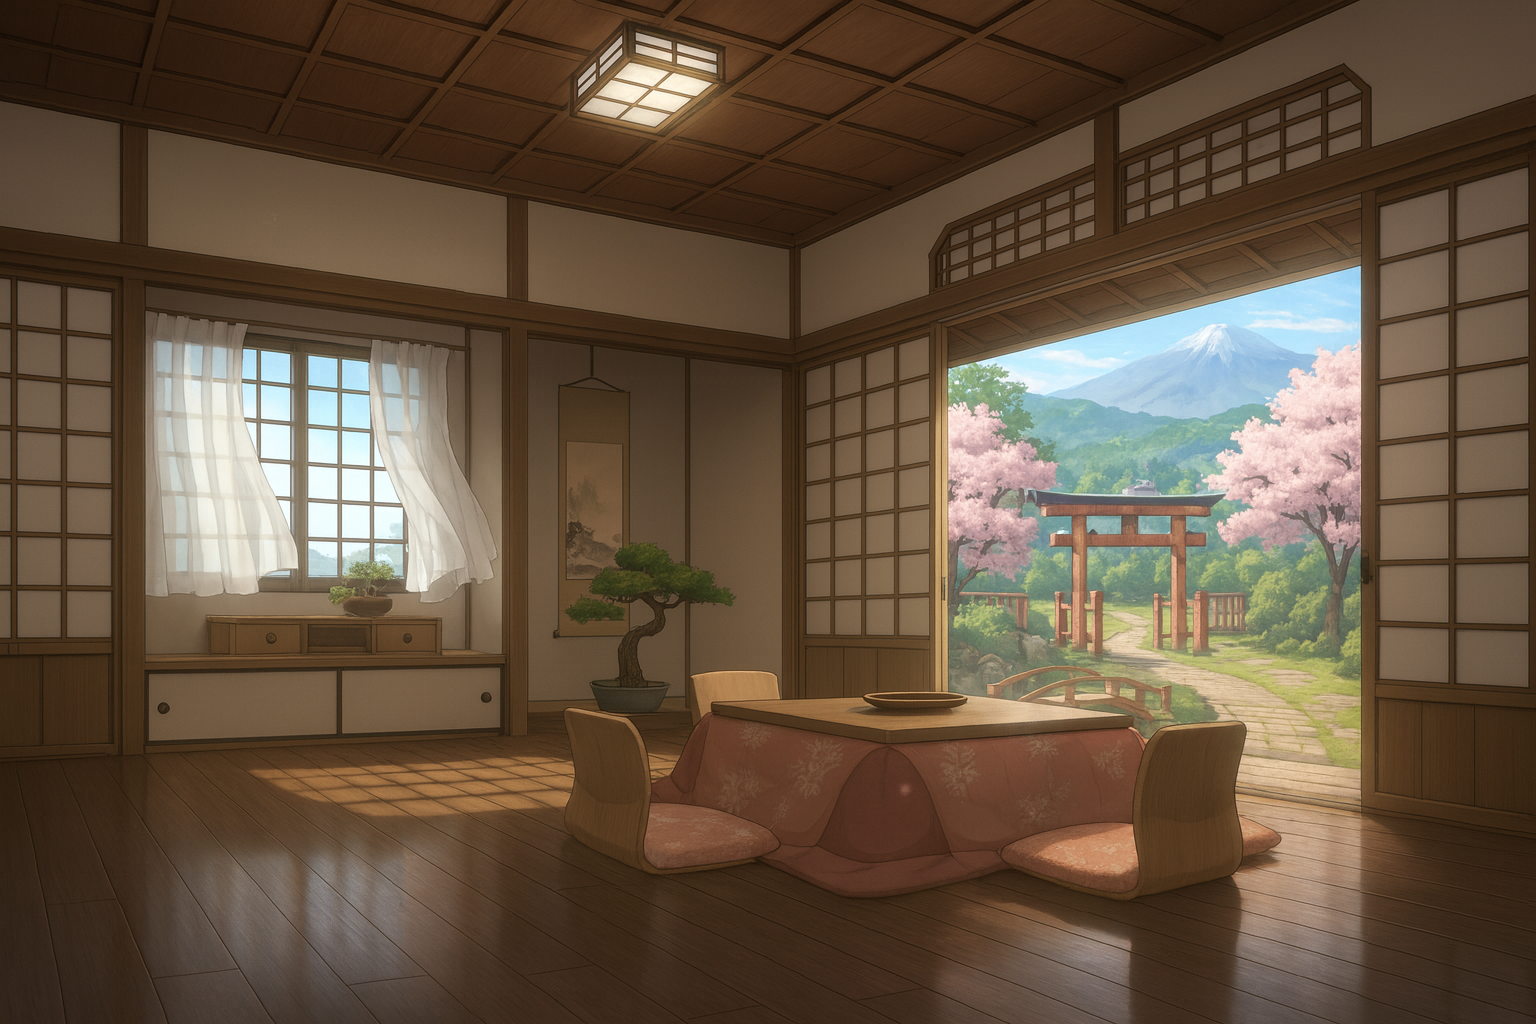
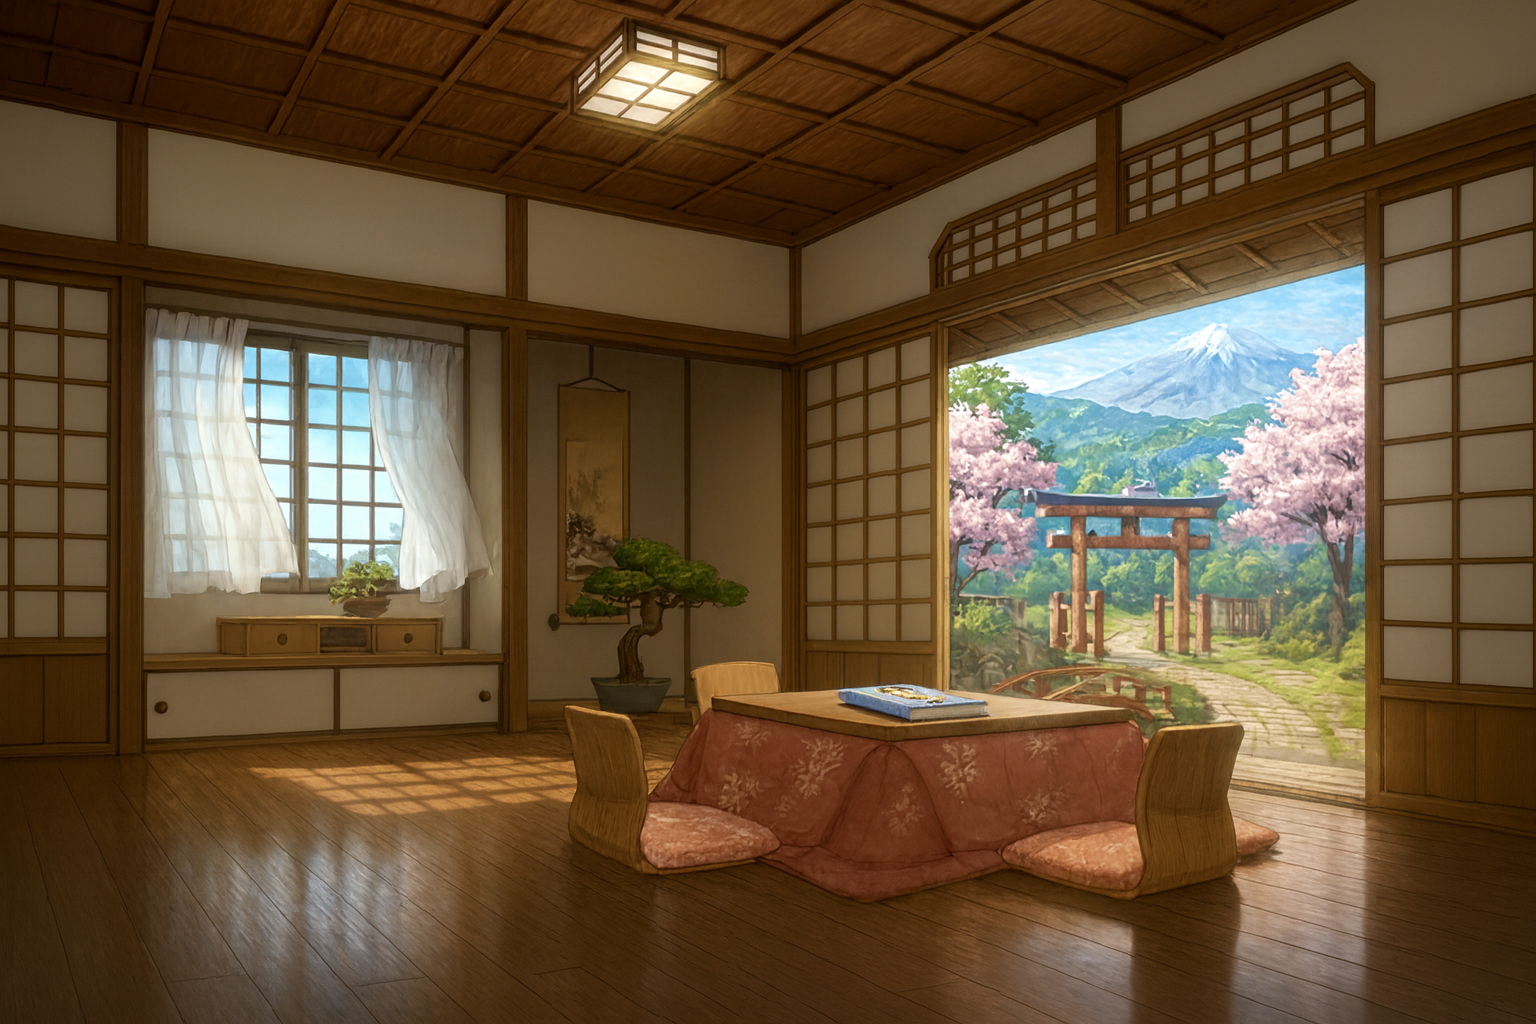
changed bg and added overlay button

diff --git a/pages/chat.js b/pages/chat.js
@@ -576,6 +576,12 @@ function ChatPage() {
           backgroundRepeat: 'no-repeat'
         }}
       >
+        {/* Clickable hotspot over the book area on the table */}
+        <a
+          href="/book"
+          aria-label="Open book memories"
+          className="book-hotspot"
+        />
         {/* Character Stage - positioned to stand on floor */}
         <div className="absolute inset-0 bottom-20">
           <div 
@@ -740,6 +746,26 @@ function ChatPage() {
             border: 1px solid rgba(255, 255, 255, 0.1);
             box-shadow: 0 8px 32px rgba(0, 0, 0, 0.4);
             animation: slideIn 0.3s ease forwards;
+          }
+
+          /* Book hotspot over background image */
+          .book-hotspot {
+            position: absolute;
+            bottom: 12%;
+            left: 60%;
+            transform: translateX(-50%);
+            width: min(20vw, 300px);
+            height: min(13vw, 200px);
+            border-radius: 12px;
+            z-index: 40; /* above streaming text (30) and below chat button (50) */
+            cursor: pointer;
+            /* invisible but still clickable */
+            background: transparent;
+          }
+
+          .book-hotspot:hover {
+            outline: 2px solid rgba(255, 255, 255, 0.2);
+            outline-offset: 2px;
           }
 
           .memories-button {
